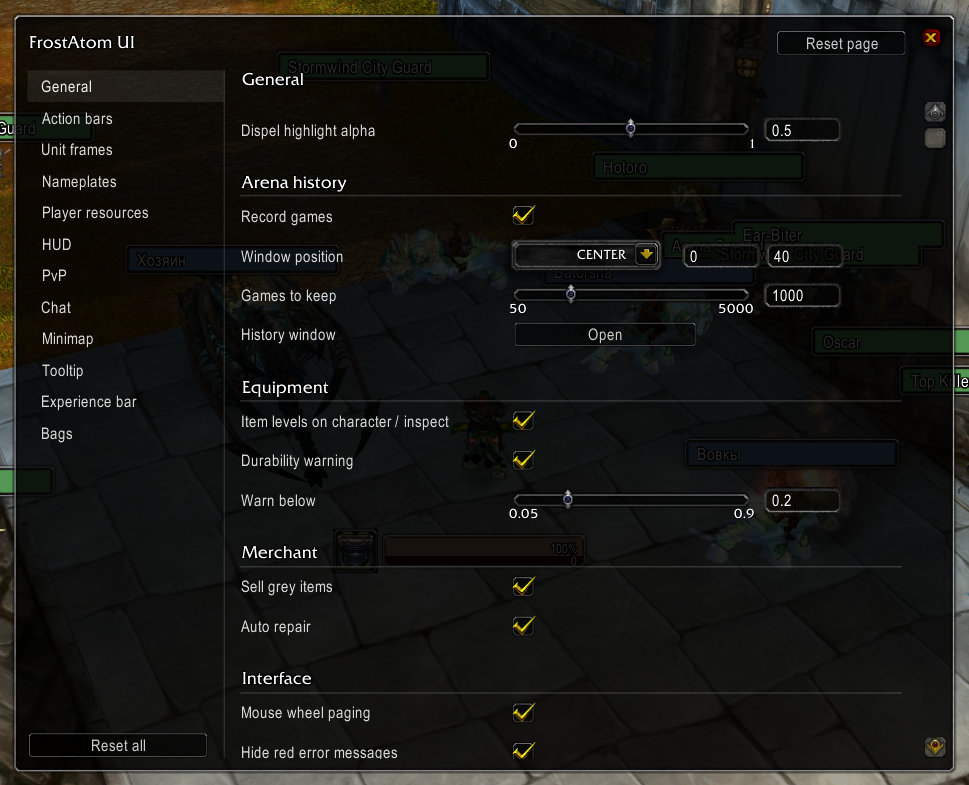
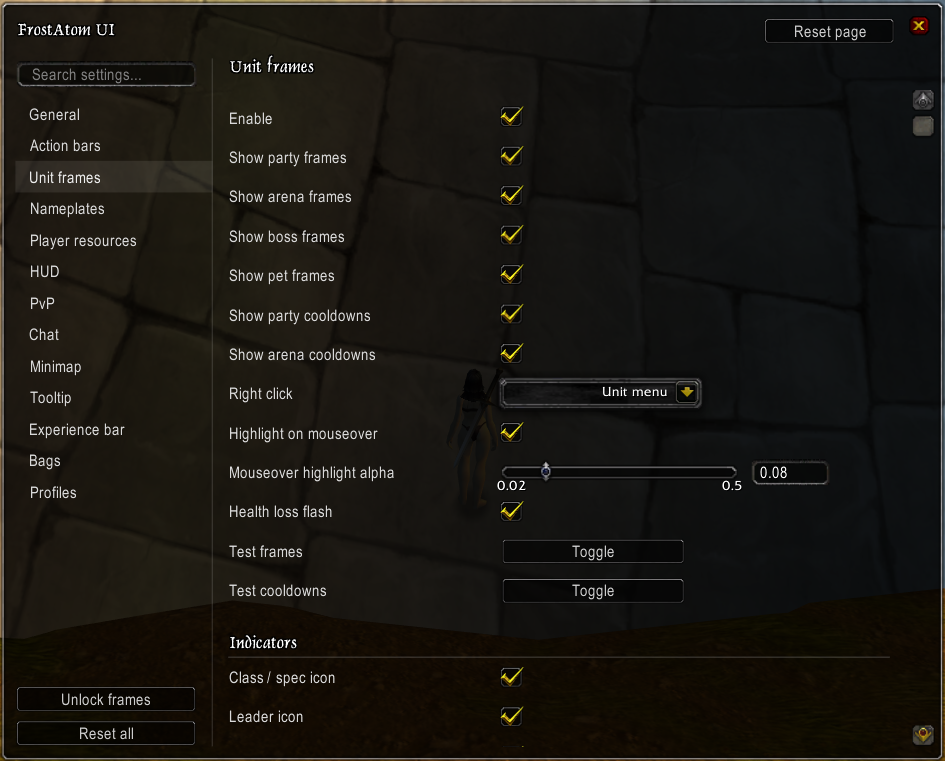
Config UI: multiselect widget, enabledByAny (OR) dependencies, descriptions on Player resources and Experience bar pages; NamePlates: healer classes selectable; Tooltip: label color disabled when neither IDs nor item count are shown; README: settings section rewritten, new settings screenshot

diff --git a/README.md b/README.md
@@ -8,8 +8,7 @@ all in one addon, ready to play right after install.
 
 *Unit frame and cooldown test modes (`/uftest`, `/cdtest`) — every frame filled with random data.*
 
-> The project is under active development and the settings window is still **work in progress** —
-> some options are missing or may move around between versions.
+> The project is under active development — options may move around between versions.
 > Questions, ideas and bug reports: **[Discord](https://discord.gg/HSD3gCYw8Q)**.
 
 ---
@@ -182,14 +181,20 @@ Every `/no…` command also takes `on`, `off` or `status`.
 
 ![Settings window](docs/screenshots/settings.png)
 
-Type `/fui` (or `/ui`, `/faui`, `/frostatomui`) to open the settings window — positions, sizes and
-other options apply immediately, no reload needed. The window lives in the separate `FrostAtomUI_Config`
-addon, which is only loaded when you open it. Defaults are listed in `FrostAtomUI/Core/Config.lua`.
+Type `/fui` (or `/ui`, `/faui`, `/frostatomui`) to open the settings window. Every module has an
+**Enable** toggle and its own page with sizes, positions, fonts, colors and visibility options; almost
+everything applies immediately, the few options that need a reload say so and offer to reload right away.
 
-The settings window is **WIP**: not everything is exposed yet and new options are added regularly.
-If something you need is missing, ask in [Discord](https://discord.gg/HSD3gCYw8Q).
+- **Search** box above the page list, or `/fui <text>` — finds options by name or description.
+- **Unlock frames** (or `/fui unlock`) — drag any frame where you want it, right-click to reset.
+- **Reset page** / **Reset all** — back to defaults with a confirmation.
+- **Profiles** page — per-character profiles, copy, reset, and export/import as a text string to share with friends.
 
-Your settings (`/nodm`, `/noduel`, chat history, …) are saved per account in `WTF\Account\<name>\SavedVariables\FrostAtomUI.lua`.
+The window lives in the separate `FrostAtomUI_Config` addon, which is only loaded when you open it.
+Defaults are listed in `FrostAtomUI/Core/Config.lua`. If something you need is missing, ask in
+[Discord](https://discord.gg/HSD3gCYw8Q).
+
+Your profiles, chat history and arena history are saved per account in `WTF\Account\<name>\SavedVariables\FrostAtomUI.lua`.
 
 ---
 
